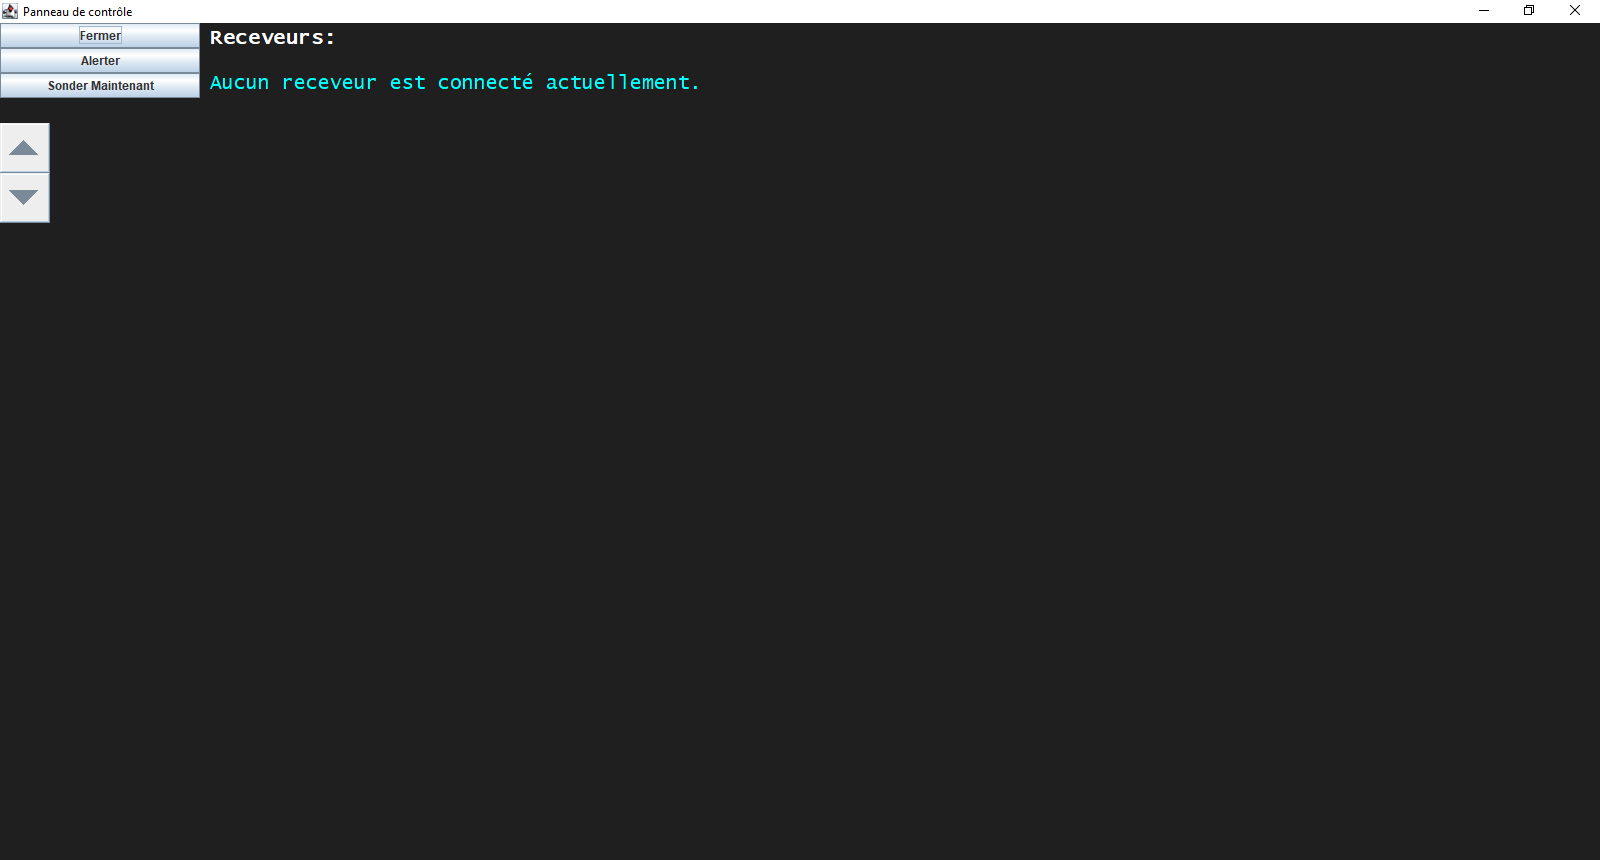
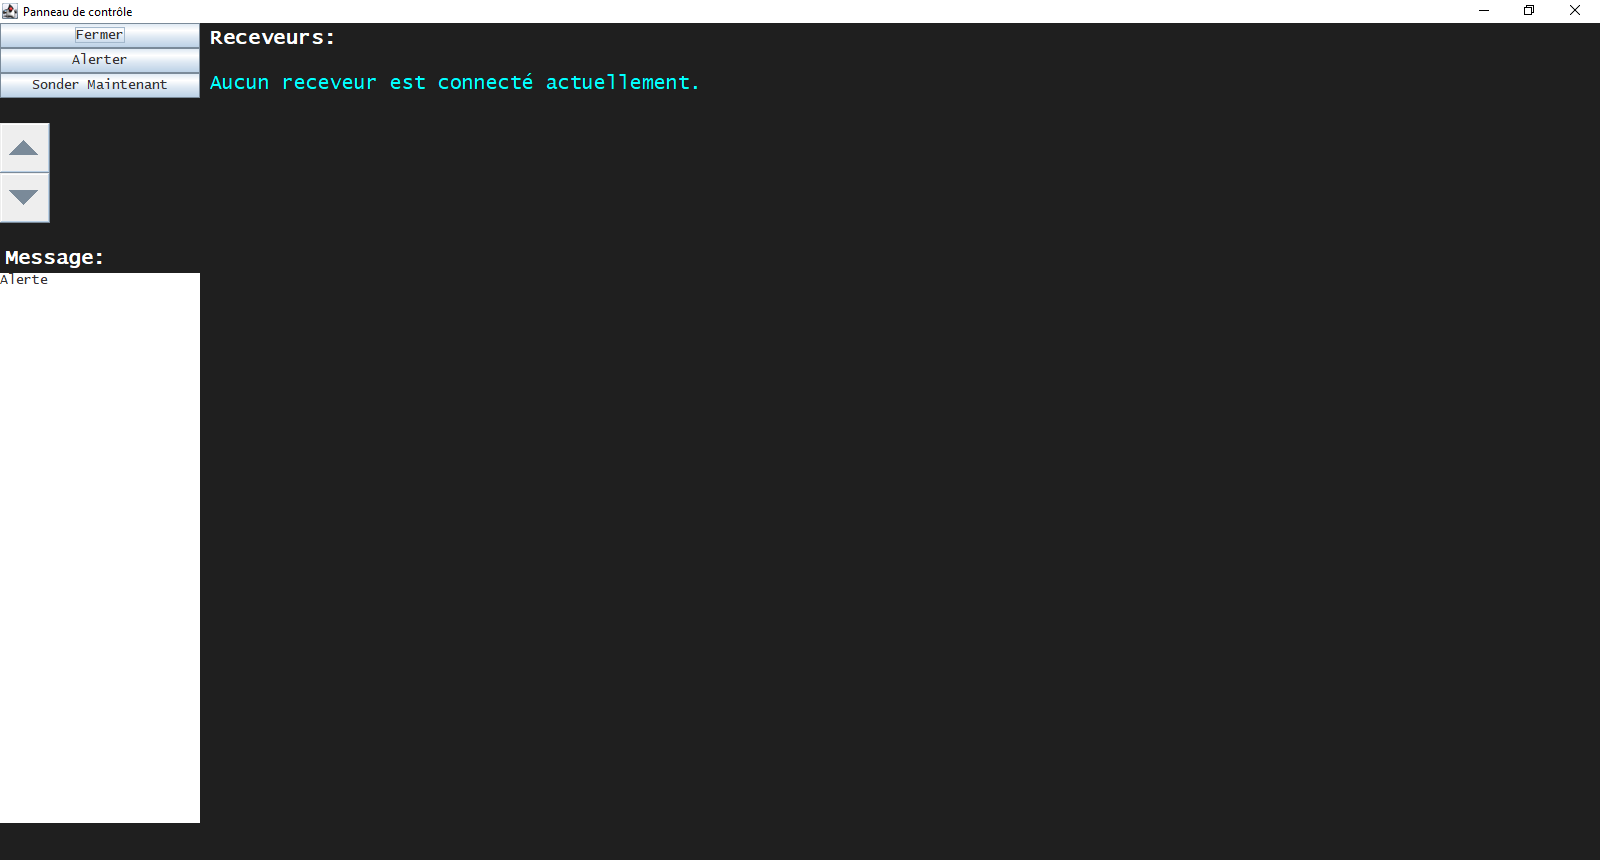
Updated README and image files

Changed region(s): [[0.0, 0.2721, 0.125, 0.9674], [0.0312, 0.0302, 0.0938, 0.1209]]

diff --git a/README.md b/README.md
@@ -1,3 +1,4 @@
+
 # Documentation pour l'exploitant d'un serveur *popup-alerte-pc*
 
 ## 1.	Mise en place de l'exploitation
@@ -33,13 +34,13 @@ Lorsque ce programme sera lancé, cette fenêtre apparaîtra&nbsp;:
 - **Sonder maintenant**&nbsp;: Ce bouton force un sondage&nbsp;; si ce bouton n'est pas pressé, un sondage a lieu avec un intervalle spécifié dans la configuration *(voir supra)*.
 - **Haut/Bas**&nbsp;: Ces boutons permettent de monter et descendre dans la liste des receveurs.
 
+Une zone de texte est présente à gauche, permettant d'afficher un écran d'alerte différent de celui par défaut.
 Les receveurs à droite peuvent présenter plusieurs couleurs suivant leur statut&nbsp;:
 
  - **Cyan**&nbsp;: Aucun receveur n'est connecté. C'est l'état par défaut du système.
  - **Vert**&nbsp;: Le receveur est connecté et sondé.
  - **Rouge**&nbsp;: Le receveur n'a pas encore été sondé ni alerté.
  - **Jaune**&nbsp;: Le receveur a été alerté, mais n'a pas encore affiché la fenêtre.
-
 ## 2.	Mise en place des receveurs
 Il existe plusieurs options quant à l'installation des receveurs.
 
